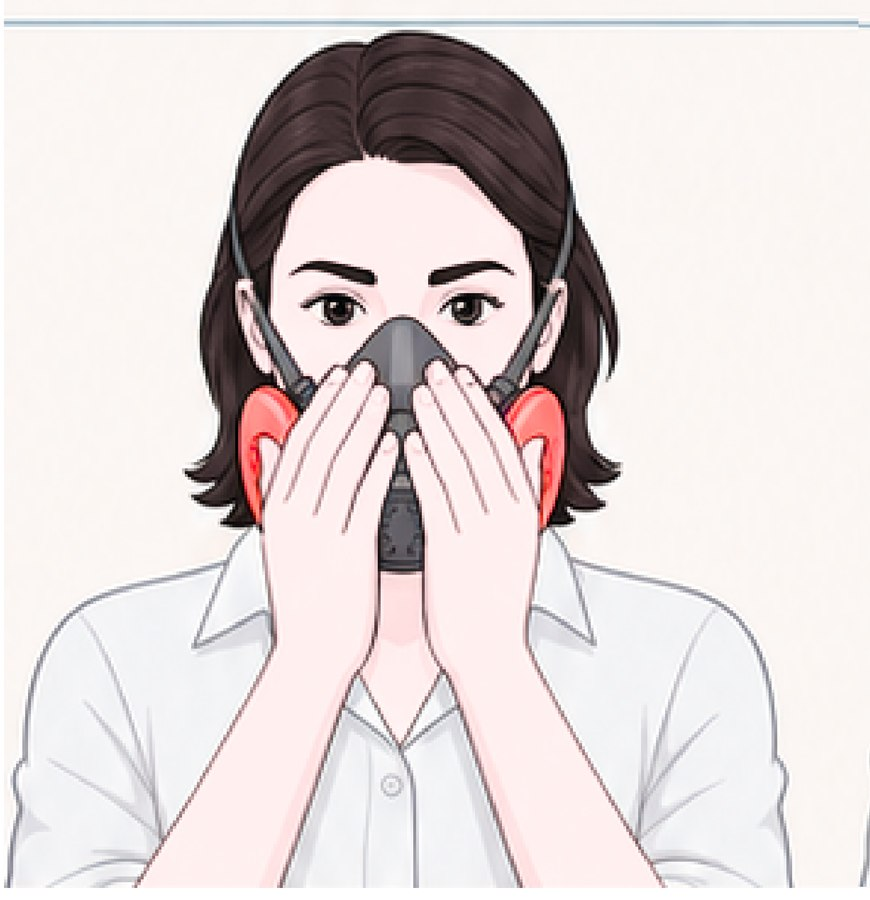
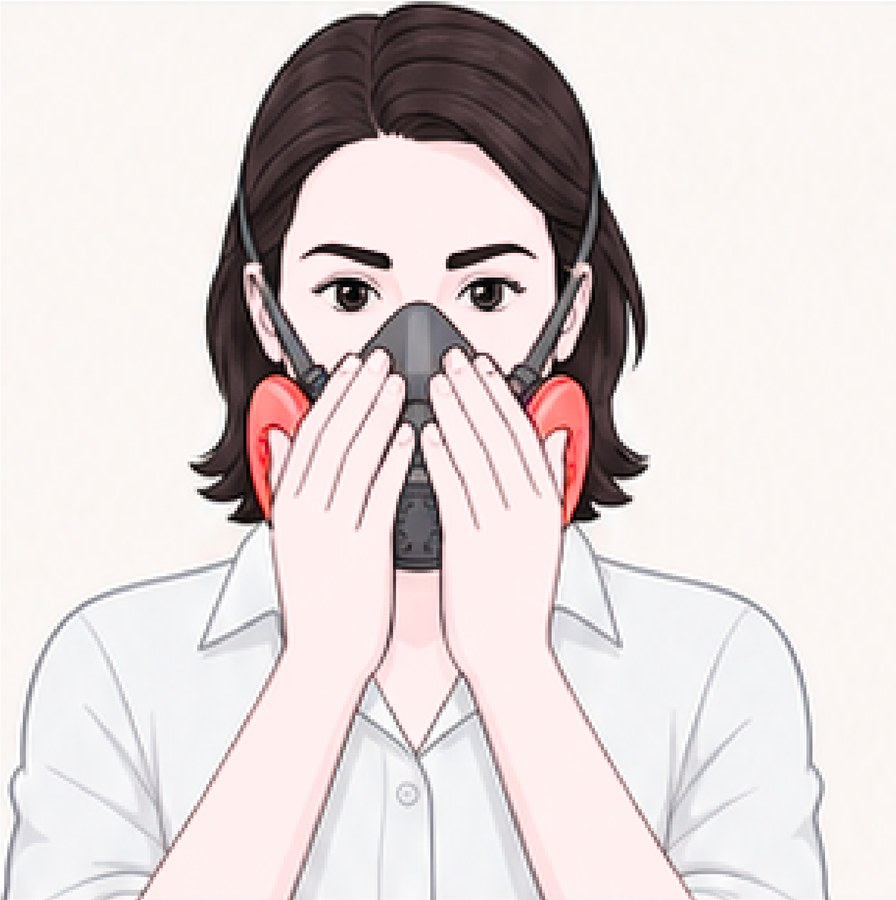
Corrige recorte e aplica foto real no Teste de Pressão - par 15/16
Teste de Pressão Negativa: troca object-cover por object-contain (a foto
retangular estava sendo cortada dentro da caixa quadrada). Teste de
Pressão Positiva: usa a foto real recortada do PDF (respirador com
cartuchos vermelhos) em vez do vetor genérico, aplicando o mesmo padrão
de caixa/borda.

diff --git a/src/components/training/ppr-pages-b.tsx b/src/components/training/ppr-pages-b.tsx
@@ -27,6 +27,7 @@ import tirantePadrao from "@/assets/ppr-manutencao-tirante-padrao-pdf.webp";
 import tiranteDeslizante from "@/assets/ppr-manutencao-tirante-deslizante-pdf.webp";
 import testeNegativa from "@/assets/teste-pressao-negativa-pdf.jpg";
 import testePositiva from "@/assets/teste-pressao-positiva.svg";
+import testePositivaPdf from "@/assets/teste-pressao-positiva-pdf.jpg";
 import ensaioQualitativo from "@/assets/ensaio-vedacao-qualitativo-pdf.jpg";
 import ensaioQuantitativo from "@/assets/ensaio-vedacao-quantitativo-pdf.jpg";
 import hig1 from "@/assets/hig-1-remover-filtros-pdf.jpg";
@@ -217,8 +218,8 @@ export function Page12({ onNext }: PageProps) {
         <Panel tone="ppr">
           <SubTitle>Teste de Pressão Negativa</SubTitle>
           <Figure
-            className="mx-auto mb-3 max-w-[260px]"
-            imgClassName={PHOTO_IMG_CLASS}
+            className={PHOTO_SQUARE_WRAP_CLASS}
+            imgClassName={PHOTO_SQUARE_IMG_CLASS}
             src={testeNegativa}
             alt="As duas mãos cobrindo as faces dos dois cartuchos do respirador"
           />
@@ -231,10 +232,10 @@ export function Page12({ onNext }: PageProps) {
         <Panel tone="ppr">
           <SubTitle>Teste de Pressão Positiva</SubTitle>
           <Figure
-            className="mx-auto mb-3 max-w-[260px]"
-            imgClassName={PHOTO_IMG_CLASS}
-            src={testePositiva}
-            alt="Palma da mão sobre a válvula de exalação do respirador"
+            className={PHOTO_SQUARE_WRAP_CLASS}
+            imgClassName={PHOTO_SQUARE_IMG_CLASS}
+            src={testePositivaPdf}
+            alt="Palma da mão sobre a válvula de exalação do respirador, respirador com cartuchos vermelhos"
           />
           Coloque a palma da mão sobre a válvula de exalação e exale suavemente. Se a peça facial
           estiver selada e não houver vazamento de ar entre seu rosto e a peça, é sinal de que uma
